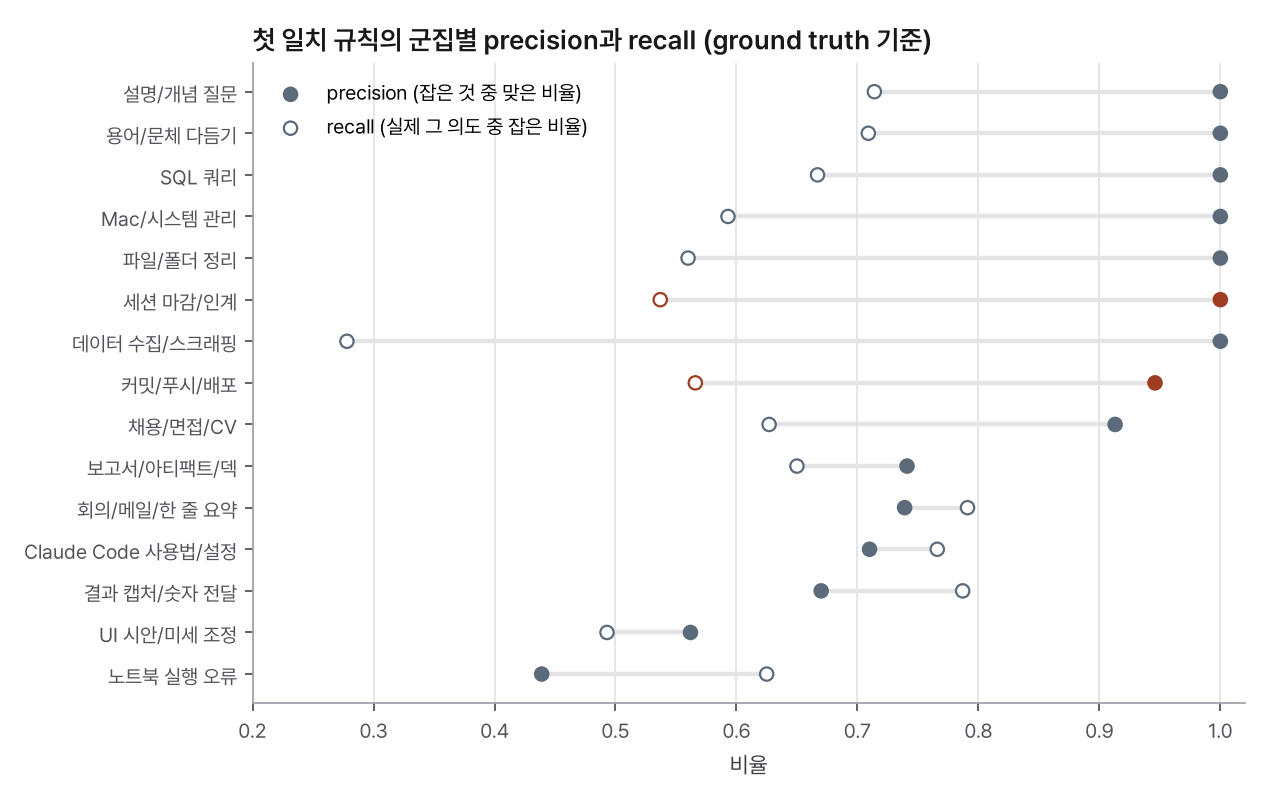
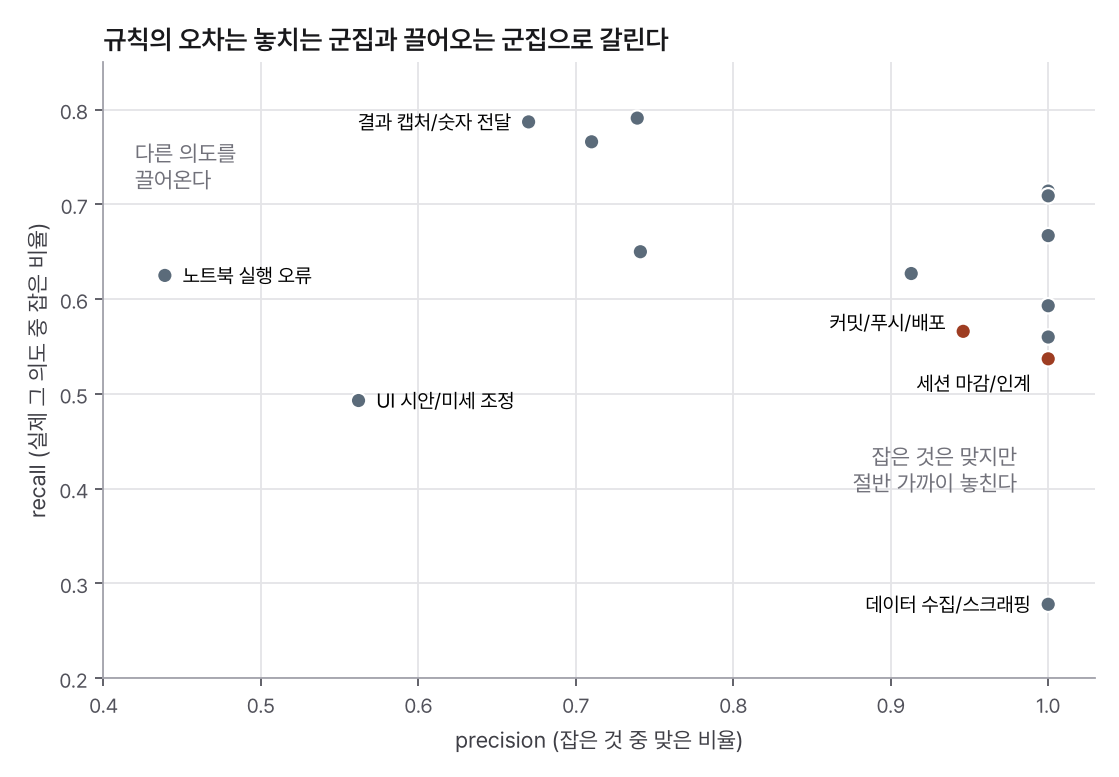
wrap 그림: 꺾은선과 15줄 점 그림을 범위 막대, 산점도, 오차 막대로

diff --git a/session-wrap-usage-log/scripts/07_site_figures.py b/session-wrap-usage-log/scripts/07_site_figures.py
@@ -7,26 +7,51 @@ import sitestyle as ss
 from common import RES
 
 A_CLUSTERS = {"commit", "wrapup"}
+REGEX_METHODS = ["sum_overlap", "union_overlap", "first", "first_ctx"]
+P_R_LABELS = {
+    "commit": ((-8, 4), "right"),
+    "wrapup": ((-8, -11), "right"),
+    "scrape": ((-8, 0), "right"),
+    "notebook": ((8, 0), "left"),
+    "ui": ((8, 0), "left"),
+    "relay": ((-8, 0), "right"),
+}
 
 
 def fig1():
-    f = pd.read_csv(RES / "funnel.csv")
-    f = f[(f["removed"] > 0) | (f.index == 0)].reset_index(drop=True)
-    second = f["step"].isin(["IDE 자동 삽입", "다른 세션이 쓴 첫 지시문"])
-    labels = ["user 내용 조각 전체"] + [f"{s} 제외" for s in f["step"].iloc[1:]]
-    fig, ax = plt.subplots(figsize=(8, 4.4))
-    y = np.arange(len(f))[::-1]
-    cols = [ss.ORANGE if s else ss.GRAY for s in second]
-    cols[0] = ss.BLUE
-    ax.barh(y, f["remaining"], color=cols, height=0.62)
-    for yi, r, n in zip(y, f["remaining"], f["removed"]):
-        ax.text(r, yi, f"  {r:,}" + (f"  (-{n:,})" if n else ""), va="center", fontsize=8)
-    ax.set_yticks(y)
-    ax.set_yticklabels(labels)
-    ax.set_xlim(0, f["remaining"].max() * 1.25)
-    ax.set_xlabel("남은 내용 조각 수")
-    ax.set_title("user 기록에서 사람이 입력한 메시지까지 (회색 1차, 주황 2차)")
-    ss.save(fig, "fig1_funnel")
+    f = pd.read_csv(RES / "funnel.csv").set_index("step")
+    total = f["remaining"].iloc[0]
+    human = f["remaining"].iloc[-1]
+    tool = f.loc["tool_result", "removed"]
+    ide = f.loc["IDE 자동 삽입", "removed"]
+    bg = f.loc["다른 세션이 쓴 첫 지시문", "removed"]
+    second = ide + bg
+    other = total - human - tool - second
+
+    fig, ax = plt.subplots(figsize=(8, 2.5))
+    left = 0
+    for n, col in [(human, ss.BLUE), (second, ss.ORANGE), (other, ss.GRAY), (tool, ss.LIGHT)]:
+        ax.barh(0, n, left=left, color=col, height=0.5, edgecolor="white", lw=1.5)
+        left += n
+
+    share = f["remaining_share"].iloc[-1]
+    ax.text(0, 0.34, f"사람이 입력\n{human:,} ({share:.1%})", va="bottom", fontsize=9)
+    ax.text(human + second, 0.34, f"그 밖 1차 거르기\n{other:,}", va="bottom", fontsize=9)
+    ax.text(human + second + other + tool / 2, 0, f"tool_result {tool:,}", ha="center", va="center", fontsize=9.5)
+    ax.annotate(
+        f"2차에서 뺀 것: IDE 자동 삽입 {ide}, 다른 세션이 쓴 첫 지시문 {bg}",
+        xy=(human + second / 2, -0.25),
+        xytext=(human + second / 2, -0.62),
+        ha="left",
+        va="center",
+        fontsize=9,
+        arrowprops={"arrowstyle": "-", "color": ss.ORANGE, "lw": 1, "relpos": (0, 1)},
+    )
+    ax.set_xlim(0, total)
+    ax.set_ylim(-0.8, 0.72)
+    ax.axis("off")
+    ax.set_title(f"user 내용 조각 {total:,}개 중 사람이 입력한 것은 13%다", pad=10)
+    ss.save(fig, "fig1_composition")
 
 
 def fig2():
@@ -38,103 +63,85 @@ def fig2():
     ax.hlines(y, c["perm_min"], c["perm_max"], color=ss.LIGHT, lw=6, label="규칙 순서 200가지의 첫 일치 범위")
     ax.scatter(c["overlap_n"], y, facecolors="white", edgecolors=col, s=40, zorder=3, label="겹침 허용")
     ax.scatter(c["first_n"], y, color=col, s=40, zorder=3, label="첫 일치 (기본 순서)")
-    moved = c[(c["first_n_before_2nd"] - c["first_n"]) > 5]
-    ax.scatter(
-        moved["first_n_before_2nd"],
-        moved.index,
-        marker="x",
-        color=ss.MUTED,
-        s=30,
-        zorder=3,
-        label="2차 거르기 전 첫 일치",
-    )
     ax.set_yticks(y)
     ax.set_yticklabels(c["label"])
     ax.set_xlabel("메시지 수")
     ax.grid(axis="x")
     ax.legend(loc="lower right")
-    ax.set_title("군집별 메시지 수: 겹침 허용과 첫 일치")
+    ax.set_title("규칙 순서만 바꿔도 군집 크기가 움직인다")
     ss.save(fig, "fig2_cluster_counts")
 
 
 def fig3():
-    e = pd.read_csv(RES / "eval_clusters.csv").sort_values(["first_precision", "first_recall"]).reset_index(drop=True)
-    fig, ax = plt.subplots(figsize=(8, 5.2))
-    y = np.arange(len(e))
+    e = pd.read_csv(RES / "eval_clusters.csv")
+    fig, ax = plt.subplots(figsize=(8, 5))
     col = [ss.ORANGE if k in A_CLUSTERS else ss.BLUE for k in e["cluster"]]
-    ax.hlines(y, e["first_recall"], e["first_precision"], color=ss.LIGHT, lw=2)
-    ax.scatter(e["first_precision"], y, color=col, s=36, zorder=3, label="precision (잡은 것 중 맞은 비율)")
-    ax.scatter(
-        e["first_recall"],
-        y,
-        facecolors="white",
-        edgecolors=col,
-        s=36,
-        zorder=3,
-        label="recall (실제 그 의도 중 잡은 비율)",
-    )
-    ax.set_yticks(y)
-    ax.set_yticklabels(e["label"])
-    ax.set_xlim(0.2, 1.02)
-    ax.set_xlabel("비율")
-    ax.grid(axis="x")
-    ax.legend(loc="upper left")
-    ax.set_title("첫 일치 규칙의 군집별 precision과 recall (ground truth 기준)")
+    ax.scatter(e["first_precision"], e["first_recall"], color=col, s=48, zorder=3, edgecolors="white", lw=1)
+    for r in e[e["cluster"].isin(P_R_LABELS)].itertuples():
+        offset, ha = P_R_LABELS[r.cluster]
+        ax.annotate(
+            r.label,
+            (r.first_precision, r.first_recall),
+            xytext=offset,
+            textcoords="offset points",
+            ha=ha,
+            va="center",
+            fontsize=9,
+        )
+    ax.text(0.98, 0.42, "잡은 것은 맞지만\n절반 가까이 놓친다", ha="right", va="center", fontsize=10, color=ss.MUTED)
+    ax.text(0.42, 0.74, "다른 의도를\n끌어온다", ha="left", va="center", fontsize=10, color=ss.MUTED)
+    ax.set_xlim(0.4, 1.03)
+    ax.set_ylim(0.2, 0.85)
+    ax.set_xlabel("precision (잡은 것 중 맞은 비율)")
+    ax.set_ylabel("recall (실제 그 의도 중 잡은 비율)")
+    ax.grid()
+    ax.set_title("규칙의 오차는 놓치는 군집과 끌어오는 군집으로 갈린다")
     ss.save(fig, "fig3_rule_precision_recall")
 
 
 def fig4():
-    e = pd.read_csv(RES / "eval_clusters.csv").sort_values("truth_n").reset_index(drop=True)
+    e = pd.read_csv(RES / "eval_clusters.csv")
+    e["error"] = e["ctx_n"] - e["truth_n"]
+    e = e.sort_values("error").reset_index(drop=True)
     fig, ax = plt.subplots(figsize=(8, 5.2))
     y = np.arange(len(e))
-    ax.hlines(y, e["first_n"], e["ctx_n"], color=ss.LIGHT, lw=2)
-    ax.scatter(e["first_n"], y, color=ss.GRAY, s=36, zorder=3, label="첫 일치")
-    ax.scatter(e["ctx_n"], y, color=ss.ORANGE, s=36, zorder=3, label="짧은 응답을 앞 턴에 붙인 뒤")
-    ax.scatter(e["truth_n"], y, marker="|", color=ss.DARK, s=160, lw=1.6, zorder=4, label="ground truth")
+    col = [ss.ORANGE if k in A_CLUSTERS else ss.BLUE for k in e["cluster"]]
+    ax.barh(y, e["error"], color=col, height=0.62)
+    ax.axvline(0, color=ss.DARK, lw=1)
+    for yi, v in zip(y, e["error"]):
+        label = f"{v:+d}" if v else "0"
+        ax.text(v + (2 if v >= 0 else -2), yi, label, ha="left" if v >= 0 else "right", va="center", fontsize=8.5)
     ax.set_yticks(y)
     ax.set_yticklabels(e["label"])
-    ax.set_xlabel("메시지 수")
-    ax.grid(axis="x")
-    ax.legend(loc="lower right")
-    ax.set_title("군집별 메시지 수: 첫 일치, 짧은 응답을 붙인 뒤, ground truth")
+    ax.set_xlim(-115, 100)
+    ax.set_xlabel("붙인 뒤 메시지 수 - ground truth (왼쪽은 작게, 오른쪽은 크게 셈)")
+    ax.spines["left"].set_visible(False)
+    ax.tick_params(axis="y", length=0)
+    ax.set_title("짧은 응답을 붙여도 세션 마감은 작고 UI 시안은 크다")
     ss.save(fig, "fig4_context_truth")
 
 
 def fig5():
-    c = pd.read_csv(RES / "eval_candidates.csv")
-    methods = [
-        ("sum_overlap", "겹침 허용 합"),
-        ("union_overlap", "합집합"),
-        ("first", "첫 일치"),
-        ("first_ctx", "짧은 응답 포함"),
-        ("truth", "ground truth"),
-    ]
-    x = np.arange(len(methods))
-    fig, ax = plt.subplots(figsize=(8, 4.6))
-    color = {"A": ss.ORANGE, "B": ss.GRAY, "C": ss.GRAY, "D": ss.BLUE}
-    ends = c.set_index("candidate")["truth"].sort_values()
-    label_y = {}
-    for k, v in ends.items():
-        label_y[k] = max(v, max(label_y.values(), default=-1e9) + 30)  # 끝 라벨 겹침 방지
-    for r in c.itertuples():
-        v = [getattr(r, m) for m, _ in methods]
-        a = r.candidate == "A"
-        ax.plot(
-            x,
-            v,
-            marker="o",
-            color=color[r.candidate],
-            lw=2.2 if a else 1.4,
-            ms=5,
-            ls="--" if r.candidate == "C" else "-",
-        )
-        ax.text(x[-1] + 0.1, label_y[r.candidate], f"{r.candidate} {r.name}", va="center", fontsize=8.5)
-    ax.set_xticks(x)
-    ax.set_xticklabels([m[1] for m in methods])
-    ax.set_xlim(-0.2, len(methods) - 1 + 1.1)
-    ax.set_ylabel("덮는 메시지 수")
-    ax.grid(axis="y")
-    ax.set_title("후보별로 덮는 메시지 수: 세는 방법 다섯 가지")
+    c = pd.read_csv(RES / "eval_candidates.csv").sort_values("truth").reset_index(drop=True)
+    fig, ax = plt.subplots(figsize=(8, 3.2))
+    y = np.arange(len(c))
+    lo = c[REGEX_METHODS].min(axis=1)
+    hi = c[REGEX_METHODS].max(axis=1)
+    col = [ss.ORANGE if k == "A" else ss.BLUE for k in c["candidate"]]
+    ax.hlines(y, lo, hi, color=col, lw=9, label="정규식으로 센 네 방법의 범위")
+    ax.scatter(c["truth"], y, marker="|", color=ss.DARK, s=260, lw=2, zorder=4, label="ground truth")
+    for yi, a, b, t in zip(y, lo, hi, c["truth"]):
+        ax.text(a, yi + 0.27, f"{a}", ha="center", fontsize=8.5)
+        ax.text(b, yi + 0.27, f"{b}", ha="center", fontsize=8.5)
+        ax.text(t, yi - 0.42, f"{t}", ha="center", fontsize=8.5, fontweight="semibold")
+    ax.set_yticks(y)
+    ax.set_yticklabels([f"{r.candidate} {r.name}" for r in c.itertuples()])
+    ax.set_ylim(-0.7, len(c) - 0.4)
+    ax.set_xlim(0, 820)
+    ax.set_xlabel("덮는 메시지 수")
+    ax.grid(axis="x")
+    ax.legend(loc="center right", bbox_to_anchor=(1, 0.45))
+    ax.set_title("어떻게 세도 A가 가장 크고, C와 D는 ground truth에서 뒤집힌다")
     ss.save(fig, "fig5_candidates")
 
 
